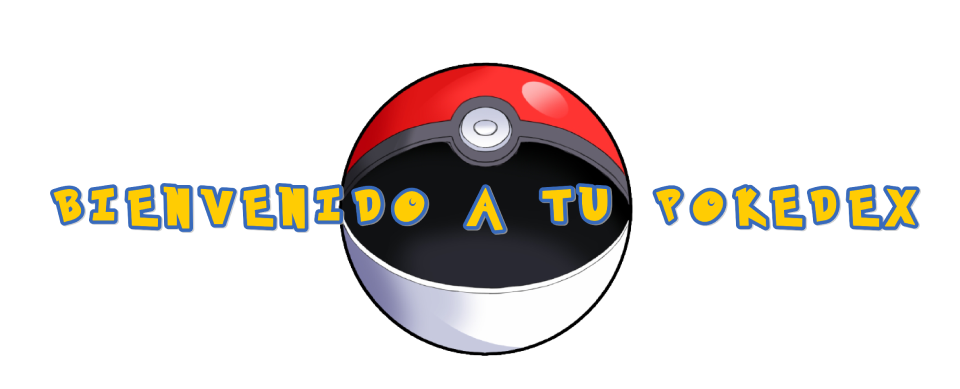
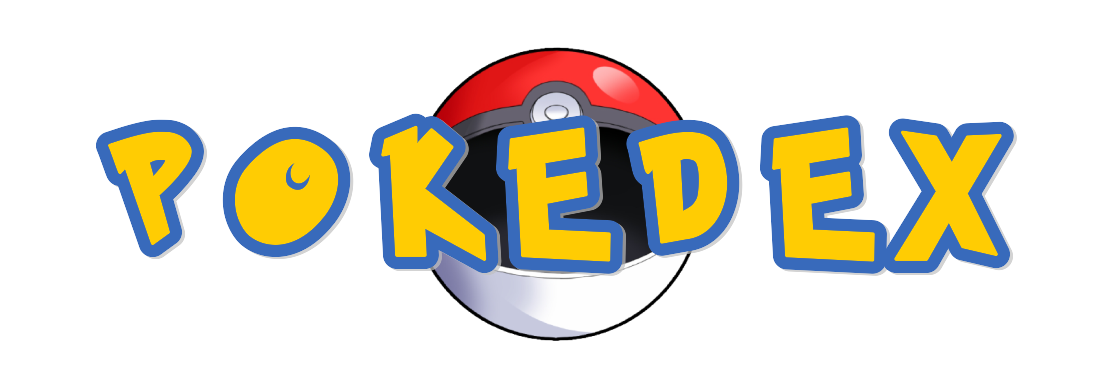
titulo cambiado y actualizado

Changed region(s): [[0.0312, 0.1234, 0.9688, 0.9254]]

diff --git a/src/views/Home.vue b/src/views/Home.vue
@@ -22,7 +22,7 @@ export default {
 		justify-content: center;
 		margin-top: 5rem;
 		.titulo--pokedex {
-			width: 80%;
+			width: 90%;
 			margin: 0 auto;
 		}
 	}
